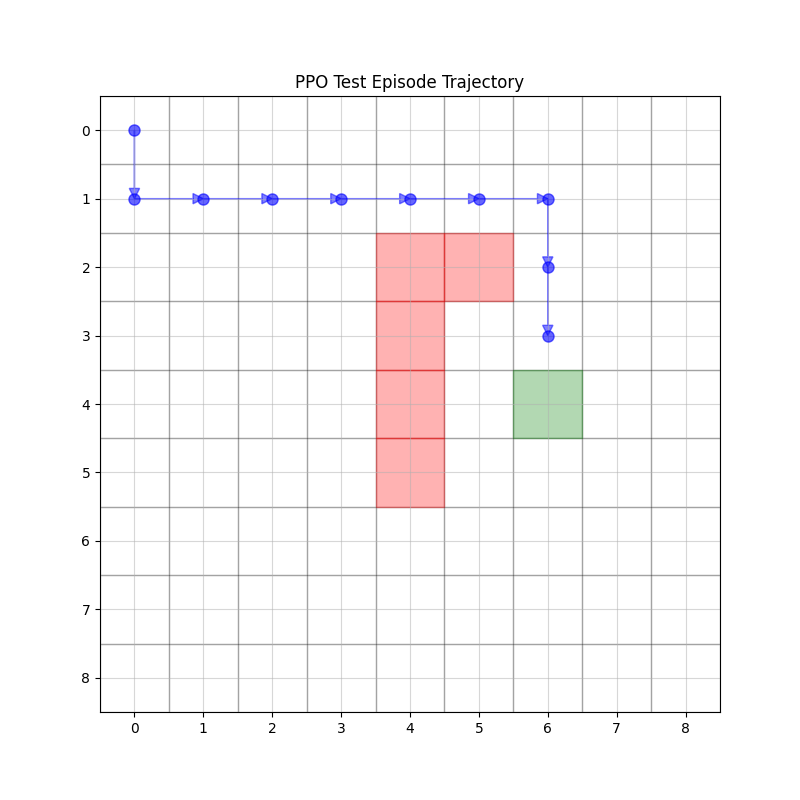
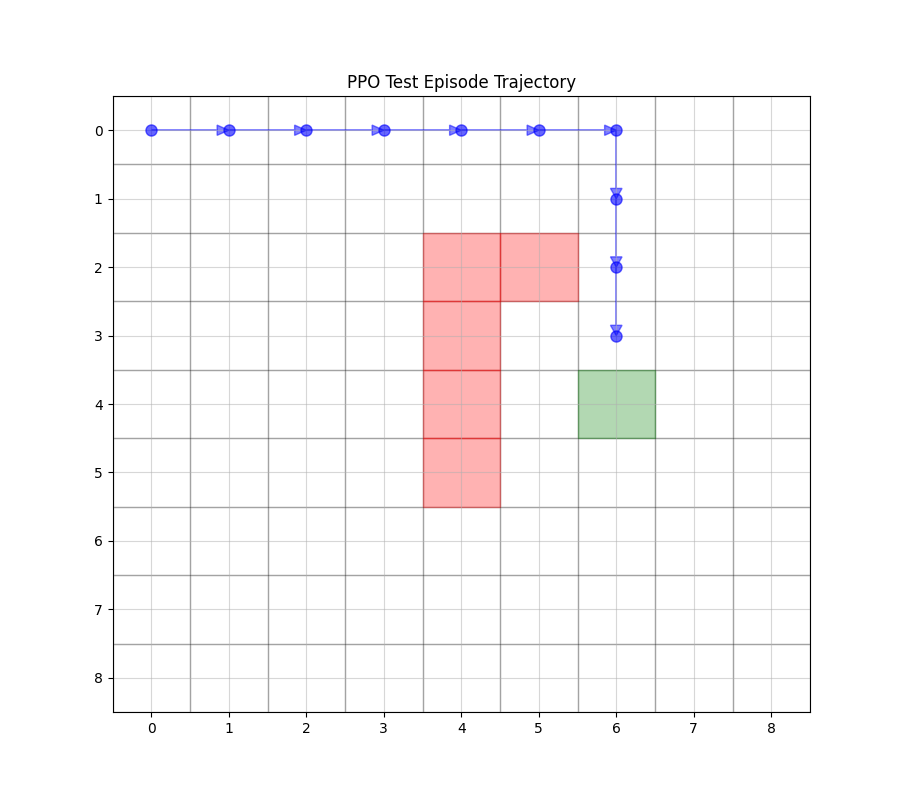
change

diff --git a/src/agents/ppo.py b/src/agents/ppo.py
@@ -191,7 +191,7 @@ class PPOAgent:
         state_tensor[state] = 1.0
         return state_tensor
 
-    def select_action(self, state: int) -> Tuple[Action, torch.Tensor, float]:
+    def select_action(self, state: int, deterministic: bool = False) -> Tuple[Action, torch.Tensor, float]:
         """
         Select action using the current policy.
 
@@ -206,11 +206,7 @@ class PPOAgent:
         """
         with torch.no_grad():
             state_tensor = self.state_to_tensor(state)
-
-            # Get action distribution from actor
             dist = self.actor(state_tensor)
-
-            # Get value estimate from critic
             value = self.critic(state_tensor).item()
 
             # Mask invalid actions
@@ -232,8 +228,13 @@ class PPOAgent:
 
             masked_dist = torch.distributions.Categorical(probs=masked_probs)
 
-            # Sample action
-            action = masked_dist.sample()
+            if deterministic:
+                # 在deterministic模式下，选择最高概率的动作
+                action = torch.argmax(masked_probs)
+            else:
+                # 在stochastic模式下，使用随机采样
+                action = masked_dist.sample()
+
             log_prob = masked_dist.log_prob(action)
 
             return Action(action.item()), log_prob, value

diff --git a/examples/ppo_example.py b/examples/ppo_example.py
@@ -8,7 +8,7 @@ import sys
 import os
 sys.path.append(os.path.dirname(os.path.dirname(os.path.abspath(__file__))))
 
-from src.environment import GridWorld
+from src.environment import GridWorld, Action
 from src.agents.ppo import PPOAgent
 from src.utils.visualization import Visualizer
 
@@ -94,7 +94,7 @@ def run_ppo_demo():
     total_reward = 0
 
     while not done:
-        action, _, _ = agent.select_action(state)
+        action, _, _ = agent.select_action(state, deterministic=True)
         next_state, reward, done, _ = env.step(action)
         episode_data.append((state, action, reward))
         total_reward += reward
@@ -115,3 +115,13 @@ def run_ppo_demo():
 
 if __name__ == "__main__":
     agent, policy, final_reward = run_ppo_demo()
+
+    # 检查initial state (0,0)的policy
+    initial_state = 0
+    action_probs = policy[initial_state]
+    print(f"Action probabilities at initial state: {action_probs}")
+    print(f"Selected action: {Action(np.argmax(action_probs)).name}")
+
+    # 实际执行一次动作选择
+    action, _, _ = agent.select_action(initial_state)
+    print(f"Actually selected action: {action.name}")

diff --git a/src/utils/visualization.py b/src/utils/visualization.py
@@ -306,7 +306,7 @@ class Visualizer:
             episode_data: List of (state, action, reward) tuples
             title: Plot title
         """
-        fig, ax = plt.subplots(figsize=(8, 8))
+        fig, ax = plt.subplots(figsize=(9, 8))
 
         # Plot grid lines
         ax.grid(True, which='major', linestyle='-', alpha=0.5)
